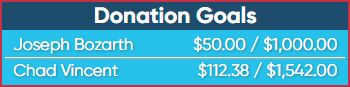
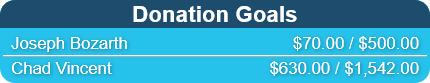
Theme and last donation update

diff --git a/team-last-donation/team-last-donation.js b/team-last-donation/team-last-donation.js
@@ -23,12 +23,6 @@
             $header.remove();
         }
 
-        if (ELT.settings.animate) {
-            $trackingContainer.addClass('animate')
-            // add animation direction
-            .addClass(`animate-${ELT.settings.animateTo}`);
-        }
-
         if (ELT.settings.showRecipient) {
             $donationConjunction.html(ELT.settings.conjunctionText);
         } else {
@@ -42,8 +36,26 @@
             });
         });
 
-        checkForNewDonations();
-        updateDonation();
+        if (ELT.settings.animate) {
+            $trackingContainer.addClass('animate')
+            // add animation direction
+            .addClass(`animate-${ELT.settings.animateTo}`);
+        } else {
+            // If we are not animating we should get the most recent donation
+            // to display
+            ELT.api.teamDonations(
+                ELT.settings.teamId, 
+                function (results) {
+                    if (results.length > 0) {
+                        $newDonations = $newDonations.concat(results[0]);
+                        lastDonationDate = new Date(results[0].createdDateUTC);
+                    }
+
+                    updateDonation();
+                }
+            );
+        }
+
         setInterval(checkForNewDonations, ELT.settings.refreshTimeMS);
         setInterval(updateDonation, ELT.settings.donationCycleMS);
     }

diff --git a/last-donation/last-donation.js b/last-donation/last-donation.js
@@ -37,11 +37,20 @@
             ELT.api.participant(participantId, function (result) {
                 result['lastDonationDate'] = new Date();
                 $participants[result.participantID] = result;
+
+                ELT.api.participantDonations(
+                    result.participantID, 
+                    function (results) {
+                        console.log(results);
+                        if (results.length > 0) {
+                            checkForNewDonationsOnSuccess(results.slice(0,1));
+                            updateDonation();
+                        }
+                    }
+                );
             });
         });
 
-        checkForNewDonations();
-        updateDonation();
         setInterval(checkForNewDonations, ELT.settings.refreshTimeMS);
         setInterval(updateDonation, ELT.settings.donationCycleMS);
     }
@@ -64,7 +73,6 @@
     function checkForNewDonationsOnSuccess(results) {
         if (results.length > 0) {
             const curParticipant = $participants[results[0].participantID];
-            console.log(curParticipant.lastDonationDate);
 
             if (curParticipant != null) {
                 curParticipant.lastDonationDate = new Date(results[0].createdDateUTC);

diff --git a/donation-rotation/donation-rotation-settings.js b/donation-rotation/donation-rotation-settings.js
@@ -1,20 +1,20 @@
 ELT.settings = {
 	// animate each donation instead of persist on screen
-	animate: true,
+	animate: false,
 	// animation pause duration
 	animationPauseMS: 5000,
 	// direction of animation (left or right)
 	animateTo: 'left',
 	// get donation information for this team
-	participantIds: [],
+	participantIds: ["523738"],
 	// name to show if the donor name is null
 	unknownDonorName: "Mysterious Hero",
 	// Message displayed when donation amount it private to the donatee
 	unknownDonationAmountText: "Private Donation",
 	// if the header message should be shown
-	showHeader: false,
+	showHeader: true,
 	// header message to display at the top of the widget
-	headerMessage: "Last Donation",
+	headerMessage: "Donation",
 	// if the recipiant of the donation should be shown. This is meant
 	// for when you have more than one participantID
 	showRecipient: false,

diff --git a/last-donation/last-donation-settings.js b/last-donation/last-donation-settings.js
@@ -6,15 +6,15 @@ ELT.settings = {
 	// direction of animation
 	animateTo: 'left',
 	// get donation information for these participants
-	participantIds: [], 
+	participantIds: ["523738"], 
 	// name to show if the donor name is null
 	unknownDonorName: "Mysterious Hero",
 	// Message displayed when donation amount it private to the donatee
 	unknownDonationAmountText: "Private Donation",
 	// if the header message should be shown
-	showHeader: false,
+	showHeader: true,
 	// header message to display at the top of the widget
-	headerMessage: "Last Donation",
+	headerMessage: "New Donation!",
 	// if the recipiant of the donation should be shown. This is meant
 	// for when you have more than one participantID
 	showRecipient: false,

diff --git a/styles-rounded.css b/styles-rounded.css
@@ -1,10 +1,16 @@
+/*
+ * Default rounded theme
+ * 
+ * To change to this theme copy the contents of this file to style.css
+ */
+
 html {
 	font-size: 1rem;
 }
 
 body {
 	font-family: "Gilroy", "Proxima Nova", arial, sans-serif;
-	margin: 10px;
+	margin: 0;
 }
 
 #tracking-container {
@@ -13,11 +19,9 @@ body {
 	background-color: #26C2EB; /* Extra Life Dark Blue */
 	border: none;
 	color: #ffffff;
-	border-radius: 15px;
 }
 
 #header {
-	border-radius: 15px 15px 0 0;
 	background-color: #1D4C6C; /* Extra Life Light Blue */
 	display: block;
 	font-size: 1em;

diff --git a/team-last-donation/team-last-donation-settings.js b/team-last-donation/team-last-donation-settings.js
@@ -1,12 +1,12 @@
 ELT.settings = {
     // animate the last donation instead of persist on screen
-    animate: false,
+    animate: true,
     // animation pause duration
     animationPauseMS: 5000,
     // direction of animation
     animateTo: 'left',
     // get donation information for this team
-    teamId: "64013",
+    teamId: "64243",
     // name to show if the donor name is null
     unknownDonorName: "Mysterious Hero",
     // Message displayed when donation amount it private to the donatee

diff --git a/countdown-timer/countdown-timer-settings.js b/countdown-timer/countdown-timer-settings.js
@@ -1,8 +1,8 @@
 ELT.settings = {
 	// the date-time that the event will start in yyyy-mm-dd hh:mm+hh:mm format (24 hour with timezone offset)
-	startTime: "2018-11-03 00:00-05:00",
+	startTime: "2023-11-03 00:00-05:00",
 	// the date-time the event will end
-	endTime: "2018-11-03 23:59-05:00",
+	endTime: "2023-11-03 23:59-05:00",
 	// if seconds should be shown
 	displaySeconds: false,
 	// if a header should be displayed above the timer

diff --git a/donation-rotation/donation-rotation.js b/donation-rotation/donation-rotation.js
@@ -38,11 +38,12 @@
 			ELT.api.participant(participantId, function(result) {
 				result['donationsSeen'] = 0;
 				$participants[result.participantID] = result;
+
+				checkForNewDonations();
+				updateDonation();
 			});
 		});
 
-		checkForNewDonations();
-		updateDonation();
 		setInterval(checkForNewDonations, ELT.settings.refreshTimeMS);
 		setInterval(updateDonation, ELT.settings.donationCycleMS); 
 	}	

diff --git a/subteam-participants/subteam-participants-settings.js b/subteam-participants/subteam-participants-settings.js
@@ -1,6 +1,6 @@
 ELT.settings = {
 	// array of participants to get data for
-	participantIds: ["318404", "297208", "297051"],
+	participantIds: ["523738", "508530"],
 	// number of participants to display at once.
 	// If the number of participants is larger than the
 	// number displayed participants will be cycled

diff --git a/team-goal/team-goal-settings.js b/team-goal/team-goal-settings.js
@@ -1,6 +1,6 @@
 ELT.settings = {
 	// Single team to get information for.
-	teamId: "38901",
+	teamId: "64243",
 	// how often should data be refreshed
 	refreshTimeMS: 15000,
 };

diff --git a/participant-goal/participant-goal-settings.js b/participant-goal/participant-goal-settings.js
@@ -8,5 +8,5 @@ ELT.settings = {
 	// how often should data be refreshed
 	refreshTimeMS: 15000,
 	// Have the progress bar
-	progressBar: true
+	progressBar: false
 };
